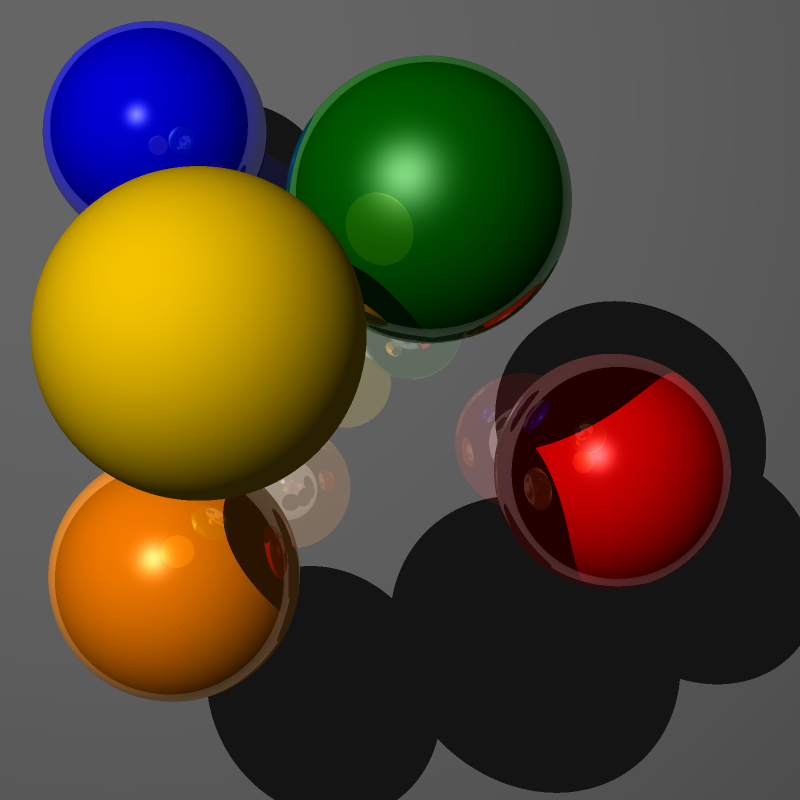
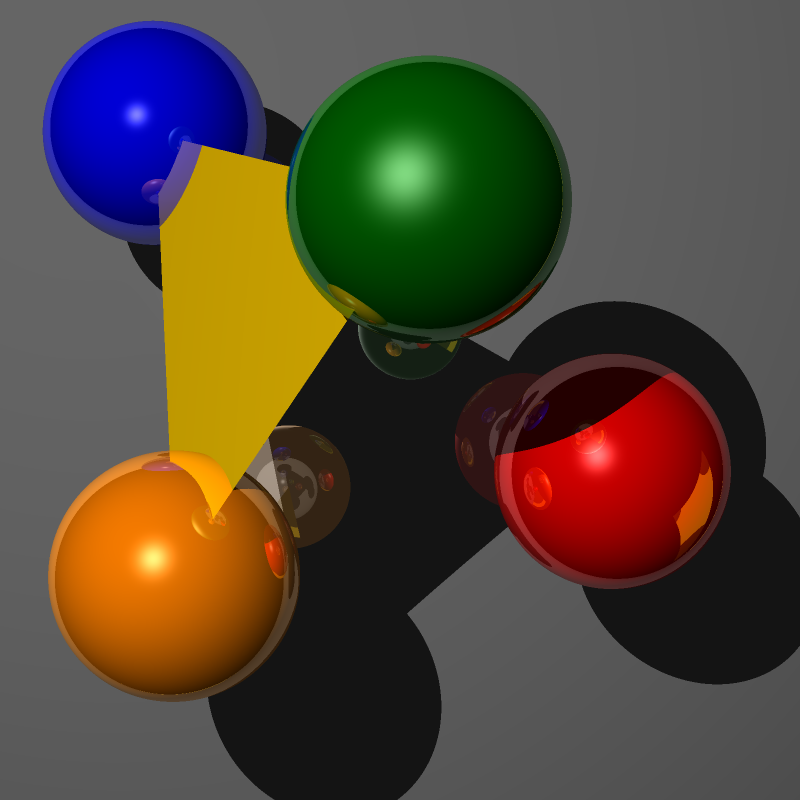
added triangle and core function split(string, char), started changes to material.o, parsing mtl files

Changed region(s): [[0.0312, 0.1562, 0.875, 1.0], [0.8438, 0.5938, 0.9062, 0.6875]]

diff --git a/src/main.cpp b/src/main.cpp
@@ -5,6 +5,7 @@
 using namespace std;
 
 #include "core.hpp"
+#include "raytracer/shapes/triangle.hpp"
 #include "raytracer/shapes/sphere.hpp"
 #include "data/image.hpp"
 #include "raytracer/rendering/rendermodel.hpp"
@@ -38,9 +39,12 @@ int main(int argc, char **argv)
     sp->material(red);
     scene->add_shape(sp);
 
-    sp = new Sphere(Vector3d(140, 220, 400), 50);
-    sp->material(yellow);
-    scene->add_shape(sp);
+    //sp = new Sphere(Vector3d(140, 220, 400), 50);
+    Triangle *tr = new Triangle(Vector3d(210, 270, 300),
+                                Vector3d(90, 320, 100),
+                                Vector3d(110, 130, 200));
+    tr->material(yellow);
+    scene->add_shape(tr);
 
     sp = new Sphere(Vector3d(110, 130, 200), 50);
     sp->material(orange);
@@ -62,6 +66,32 @@ int main(int argc, char **argv)
     
     delete img;
     delete scene;
+
+    std::string s = "hoi ik heet jos hoe  heet jij?";
+    std::string s2 = "hallo";
+    std::string s3 = "";
+
+    std::vector<std::string> vs = split(s, ' ');
+    std::vector<std::string> vs2 = split(s2, ' ');
+    std::vector<std::string> vs3 = split(s3, ' ');
+
+    for(std::string ss : vs)
+    {
+        std::cout << "entry: " << ss << " - " << ss.length() << std::endl;
+    }
+    std::cout << std::endl;
+
+    for(std::string ss : vs2)
+    {
+        std::cout << "entry: " << ss << std::endl;
+    }
+    std::cout << std::endl;
+
+    for(std::string ss : vs3)
+    {
+        std::cout << "entry: " << ss << std::endl;
+    }
+    std::cout << std::endl;
 
     return 0;
 }

diff --git a/src/raytracer/material.hpp b/src/raytracer/material.hpp
@@ -2,6 +2,7 @@
 #define RAYTRACER_MATERIAL_HPP
 
 #include <string>
+#include <vector>
 #include "../core.hpp"
 
 namespace raytracer
@@ -23,6 +24,34 @@ namespace raytracer
         const double m_specular_exponent;
     };
 
+    //Material object parsed from mtl file.
+    class ObjMaterial
+    {
+    public:
+        ObjMaterial()
+            : m_name(""),
+            m_ambient(Vector3d()), m_diffuse(Vector3d()), m_specular(Vector3d()), m_specular_exponent(0),
+            m_bump_map(""), m_displacement_map(""),
+            m_ambient_texture(""), m_diffuse_texture(""), m_specular_texture("") { };
+
+        std::string m_name; //name
+
+        //material characteristicsc
+        Vector3d m_ambient;
+        Vector3d m_diffuse;
+        Vector3d m_specular;
+        double m_specular_exponent;
+
+        //texture map filenames
+        std::string m_bump_map;
+        std::string m_displacement_map;
+
+        std::string m_ambient_texture;
+        std::string m_diffuse_texture;
+        std::string m_specular_texture;
+    };
+
+    std::vector<ObjMaterial> parse_mtl_file(const std::string &file);
 }
 
 #endif

diff --git a/src/math/vector4.hpp b/src/math/vector4.hpp
@@ -14,12 +14,12 @@
 #include <typeinfo>
 
 #include "math.hpp"
-#include "../core.hpp"
+#include "vector3.hpp"
 
 namespace math
 {
 
-    template<typename T = float> class Vector4 : public Object
+    template<typename T = float> class Vector4
     {
     public:
         T m_x;
@@ -89,7 +89,7 @@ namespace math
             m_w = m_w < min ? min : (m_w > max ? max : m_w);
         }
 
-        Vector4<T> clamp(T min, T max) const
+        Vector4<T> clamp(T min = 0.0, T max = 1.0) const
         {
             Vector4<T> rval;
 
@@ -99,6 +99,11 @@ namespace math
             rval.m_w = m_w < min ? min : (m_w > max ? max : m_w);
 
             return rval;
+        }
+
+        Vector3<T> xyz() const
+        {
+            return Vector3<T>(m_x, m_y, m_z);
         }
 
         ///////////////////////////////////////////////////////////////////////////////////////
@@ -229,6 +234,8 @@ namespace math
             return ss.str();
         }
     };
+
+    typedef Vector4<double> Vector4d;
 
 }
 

diff --git a/src/raytracer/shapes/triangle.cpp b/src/raytracer/shapes/triangle.cpp
@@ -1,0 +1,32 @@
+#include "triangle.hpp"
+
+namespace raytracer
+{
+
+    Hit Triangle::intersect(const Ray &ray)
+    {
+        Vector3d e1 = m_v1 - m_v0;
+        Vector3d e2 = m_v2 - m_v0;
+        Vector3d e1e2 = e1.cross(e2).normalized();
+
+        Vector3d p = ray.direction().cross(e2);
+        float a = e1.dot(p);
+        if(a < 0.0001) return Hit::no_hit();
+
+        float f = 1.0f / a;
+        Vector3d s = ray.origin() - m_v0;
+        float u = f * (s.dot(p));
+        if(u < 0.0 || u > 1.0)
+            return Hit::no_hit();
+
+        Vector3d q = s.cross(e1);
+        float v = f * (ray.direction().dot(q));
+        if(v < 0.0 || u + v > 1.0)
+            return Hit::no_hit();
+
+        float t = f * (e2.dot(q));
+
+        return Hit(this, t, e1e2);
+    }
+
+}

diff --git a/src/core.cpp b/src/core.cpp
@@ -44,6 +44,31 @@ std::string trim_back(const std::string &str)
     return str.substr(0, str.find_last_not_of(" \t\n\r") + 1);
 }
 
+std::vector<std::string> split(const std::string &str, char s)
+{
+    size_t pos = 0;
+    std::vector<std::string> rval;
+
+    while(true)
+    {
+        size_t pos2 = str.find_first_of(s, pos);
+
+        if(pos2 == std::string::npos) //if end of line
+        {
+            //push final result, break
+            rval.push_back(str.substr(pos, pos2));
+            break;
+        }
+
+        //push part and increment past the splitchar.
+        rval.push_back(str.substr(pos, pos2 - pos));
+        pos = pos2 + 1;
+    }
+
+    rval.shrink_to_fit();
+    return rval;
+}
+
 std::string get_line(std::istream& is)
 {
     std::string rval;

diff --git a/src/raytracer/shapes/triangle.hpp b/src/raytracer/shapes/triangle.hpp
@@ -1,0 +1,32 @@
+#ifndef RAYTRACER_SHAPES_TRIANGLE_HPP
+#define RAYTRACER_SHAPES_TRIANGLE_HPP
+
+#include "shape.hpp"
+#include "../../core.hpp"
+
+namespace raytracer
+{
+
+    class Triangle : public Shape
+    {
+    public:
+        Triangle(const Vector3d &v1, const Vector3d &v2, const Vector3d &v3)
+            : m_v0(v1), m_v1(v2), m_v2(v3) { };
+
+        virtual ~Triangle() { m_material = nullptr; } //release material before its deleted by shape
+
+        virtual Hit intersect(const Ray &ray);    
+
+        //TODO: override tostring
+        //TODO: add smooth normals
+        //TODO: add texture mapping
+
+    protected:
+        const Vector3d m_v0;
+        const Vector3d m_v1;
+        const Vector3d m_v2;
+    };
+
+}
+
+#endif

diff --git a/src/raytracer/material.cpp b/src/raytracer/material.cpp
@@ -1,5 +1,7 @@
 #include "material.hpp"
 
+#include <fstream>
+
 namespace raytracer
 {
 
@@ -12,4 +14,22 @@ namespace raytracer
         return s;
     }
 
+    std::vector<ObjMaterial> parse_mtl_file(const std::string &file)
+    {
+        std::ifstream in(file);
+        if(in.fail()) throw Exception(__PRETTY_FUNCTION__, "Failed to open material file " + file);
+
+        ObjMaterial mat;
+
+        while(!in.eof())
+        {
+            std::string buffer = get_line(in);
+            if(trim(buffer) == "") continue;
+            if(buffer.find_first_of("#") == 0) continue;
+
+            //parse dem shizzle.
+
+
+        }
+    }
 }

diff --git a/src/core.hpp b/src/core.hpp
@@ -9,7 +9,9 @@
 #include <exception>
 
 #include "math/vector3.hpp"
+#include "math/vector4.hpp"
 using math::Vector3d;
+using math::Vector4d;
 
 class Object
 {
@@ -37,6 +39,8 @@ protected:
 std::string trim(const std::string &str);
 std::string trim_front(const std::string &str);
 std::string trim_back(const std::string &str);
+
+std::vector<std::string> split(const std::string &str, char s);
 
 std::string get_line(std::istream &is);
 std::vector<unsigned char> read_file(std::string file);

diff --git a/readme.md b/readme.md
@@ -53,6 +53,10 @@ This category contains certain classes designed specifically for the raytracer f
 This category contains light-types.
 * point-light: A light that emits light of a certain color from a certain point
 
+Idea for soft shadows: light-volumes, for example a line-light (tl-bar or whatever?) traces rays to the to-be-shadowed point from its width (maybe a 2d space). pointlights can use cones but maybe also make specialized lights for that, so make a light have actual shadowing.
+
+ps. think about shadows + refraction.
+
 ### rendering
 This category contains a base-class for a (virtual)renderer object and subclasses to determine the shading
 * !!depthshader: (debug-based) this class renders the scene based on the z-buffer.
